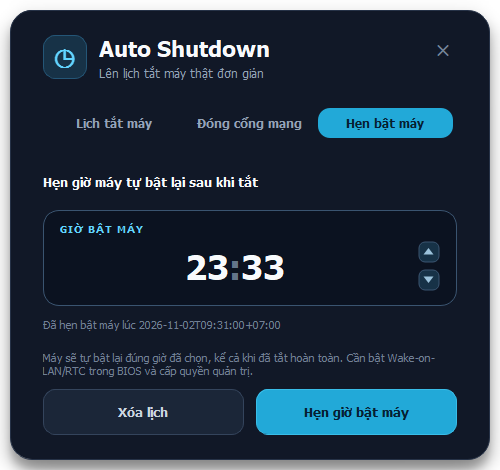
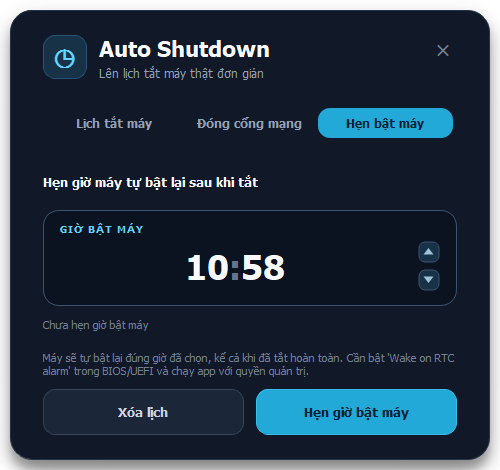
fix: wake-up task never fired after the machine powered on
- Bo qua cmd.exe: /c lam mat dau nhay, task chay loi (LastTaskResult 1)
- Doi LogonType Interactive -> S4U de task chay duoc khi chua co ai dang nhap
- Kiem tra powercfg /waketimers de bao cao RTC timer co that su duoc arm
- Hien thi thoi gian hien thuc dinh dang chuoi de doc

diff --git a/wake_scheduler.py b/wake_scheduler.py
@@ -46,11 +46,10 @@ def _run_powershell(script, timeout=30):
 
 
 def app_command():
-    """Return the command used to relaunch this application."""
+    """Return the (executable, arguments) used to relaunch this application."""
     if getattr(sys, "frozen", False):
-        return f'"{sys.executable}" {WAKE_FLAG}'
-    script = os.path.abspath(sys.argv[0])
-    return f'"{sys.executable}" "{script}" {WAKE_FLAG}'
+        return sys.executable, WAKE_FLAG
+    return sys.executable, f'"{os.path.abspath(sys.argv[0])}" {WAKE_FLAG}'
 
 
 def next_occurrence(clock_time):
@@ -70,19 +69,21 @@ def schedule_wake(hour, minute):
     Returns (success, message).
     """
     when = next_occurrence((hour, minute))
-    action = app_command()
+    executable, arguments = app_command()
 
+    # S4U lets the task run at boot even though nobody has logged in yet,
+    # which is exactly the case a wake-up task has to survive.
     script = (
         "$ErrorActionPreference = 'Stop'\n"
-        f"$action = New-ScheduledTaskAction -Execute 'cmd.exe' "
-        f"-Argument '/c {action}'\n"
+        f"$action = New-ScheduledTaskAction -Execute '{_ps_quote(executable)}' "
+        f"-Argument '{_ps_quote(arguments)}'\n"
         "$trigger = New-ScheduledTaskTrigger -Once -At "
         f"'{when.strftime('%Y-%m-%dT%H:%M:%S')}'\n"
         "$settings = New-ScheduledTaskSettingsSet -WakeToRun -StartWhenAvailable "
         "-AllowStartIfOnBatteries -DontStopIfGoingOnBatteries "
         "-ExecutionTimeLimit (New-TimeSpan -Minutes 5)\n"
         "$principal = New-ScheduledTaskPrincipal -UserId $env:USERNAME "
-        "-LogonType Interactive -RunLevel Highest\n"
+        "-LogonType S4U -RunLevel Highest\n"
         f"Register-ScheduledTask -TaskName '{TASK_NAME}' -Action $action "
         "-Trigger $trigger -Settings $settings -Principal $principal "
         "-Force | Out-Null\n"
@@ -99,6 +100,26 @@ def schedule_wake(hour, minute):
     detail = (result.stderr or result.stdout or "").strip().splitlines()
     message = detail[-1] if detail else "Khong ro nguyen nhan"
     return False, message
+
+
+def _ps_quote(text):
+    """Escape a value for a single-quoted PowerShell string."""
+    return text.replace("'", "''")
+
+
+def wake_timer_armed():
+    """Return True when Windows has actually armed an RTC wake timer.
+
+    A task can be registered and still never wake the machine, so the UI
+    reports this instead of claiming success.
+    """
+    try:
+        result = subprocess.run(
+            ["powercfg", "/waketimers"], capture_output=True, text=True, timeout=15
+        )
+    except (subprocess.SubprocessError, OSError):
+        return False
+    return TASK_NAME in result.stdout
 
 
 def cancel_wake():
@@ -126,4 +147,19 @@ def get_wake_info():
     except (subprocess.SubprocessError, OSError):
         return None
     value = result.stdout.strip()
-    return value or None
+    if not value:
+        return None
+    return _format_boundary(value)
+
+
+def _format_boundary(value):
+    """Turn a Task Scheduler StartBoundary into a readable local time."""
+    from datetime import datetime
+
+    text = value.split("+")[0].rstrip("Z")
+    for fmt in ("%Y-%m-%dT%H:%M:%S", "%Y-%m-%dT%H:%M"):
+        try:
+            return datetime.strptime(text, fmt).strftime("%d/%m/%Y %H:%M")
+        except ValueError:
+            continue
+    return value

diff --git a/AutoShutdown.py b/AutoShutdown.py
@@ -567,7 +567,7 @@ class ModernPopup(QWidget):
 
         note = QLabel(
             "Máy sẽ tự bật lại đúng giờ đã chọn, kể cả khi đã tắt hoàn toàn. "
-            "Cần bật Wake-on-LAN/RTC trong BIOS và cấp quyền quản trị."
+            "Cần bật 'Wake on RTC alarm' trong BIOS/UEFI và chạy app với quyền quản trị."
         )
         note.setObjectName("hint")
         note.setWordWrap(True)
@@ -607,14 +607,28 @@ class ModernPopup(QWidget):
             selected.hour(), selected.minute()
         )
         if success:
-            self.wake_status.setText(f"Đã hẹn bật máy lúc {message}")
+            # A registered task is not enough: Windows must have armed an RTC
+            # wake timer, otherwise the machine stays off.
+            armed = wake_scheduler.wake_timer_armed()
+            if armed:
+                self.wake_status.setText(f"Đã hẹn bật máy lúc {message}")
+                notice = f"Máy sẽ tự bật lại lúc {message}."
+            else:
+                self.wake_status.setText(
+                    f"Đã đặt lịch lúc {message}, nhưng Windows chưa bật timer RTC."
+                )
+                notice = (
+                    "Lịch đã được tạo nhưng Windows chưa bật timer đánh thức RTC.\n"
+                    "Hãy bật 'Wake on RTC alarm' trong BIOS/UEFI, "
+                    "hoặc dùng Wake-on-LAN."
+                )
             app = QApplication.instance()
             if hasattr(app, "tray"):
                 app.tray.showMessage(
-                    "Đã hẹn giờ bật máy",
-                    f"Máy sẽ tự bật lại lúc {message}.",
-                    QSystemTrayIcon.Information,
-                    3000,
+                    "Hẹn giờ bật máy",
+                    notice,
+                    QSystemTrayIcon.Information if armed else QSystemTrayIcon.Warning,
+                    4000,
                 )
         else:
             self.wake_status.setText(f"Không hẹn được: {message}")

diff --git a/test_wake_scheduler.py b/test_wake_scheduler.py
@@ -1,0 +1,43 @@
+"""Self-check for wake_scheduler helpers. Run: python test_wake_scheduler.py"""
+
+import sys
+from datetime import datetime, timedelta
+
+import wake_scheduler as w
+
+
+def check_format():
+    assert w._format_boundary("2026-11-02T23:30:00+07:00") == "02/11/2026 23:30"
+    assert w._format_boundary("2026-11-02T23:30:00Z") == "02/11/2026 23:30"
+    assert w._format_boundary("2026-11-02T23:30") == "02/11/2026 23:30"
+    # Unparsable values are passed through untouched.
+    assert w._format_boundary("garbage") == "garbage"
+
+
+def check_next_occurrence():
+    now = datetime.now()
+    soon = (now.hour, now.minute)
+    target = w.next_occurrence(soon)
+    assert target >= now
+    assert (target.hour, target.minute) == soon
+    assert target.second == 0
+
+    # A time already past today must land tomorrow.
+    past = (now.hour - 1) % 24
+    target = w.next_occurrence((past, now.minute))
+    assert target > now
+    assert target - now <= timedelta(days=1)
+
+
+def check_app_command():
+    executable, arguments = w.app_command()
+    assert executable.lower().endswith("python.exe") or executable.lower().endswith(".exe")
+    assert w.WAKE_FLAG in arguments
+
+
+if __name__ == "__main__":
+    check_format()
+    check_next_occurrence()
+    check_app_command()
+    print("wake_scheduler self-check OK")
+    sys.exit(0)
